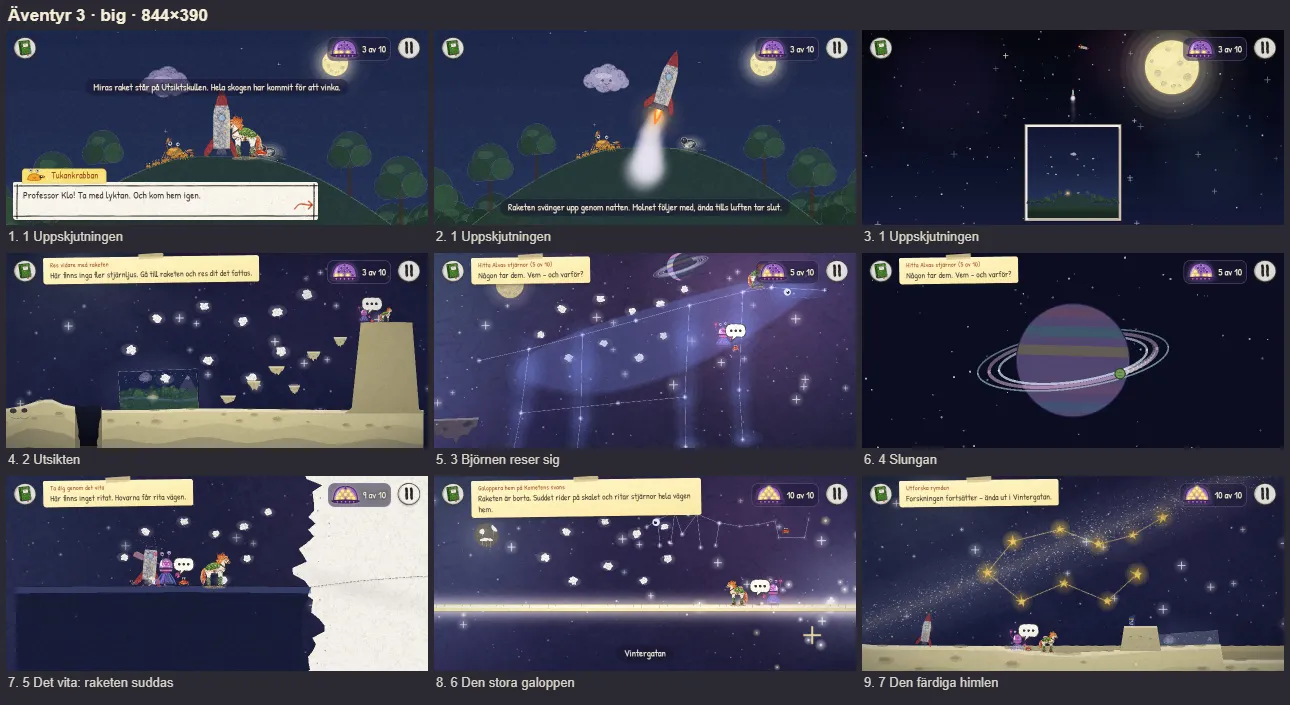
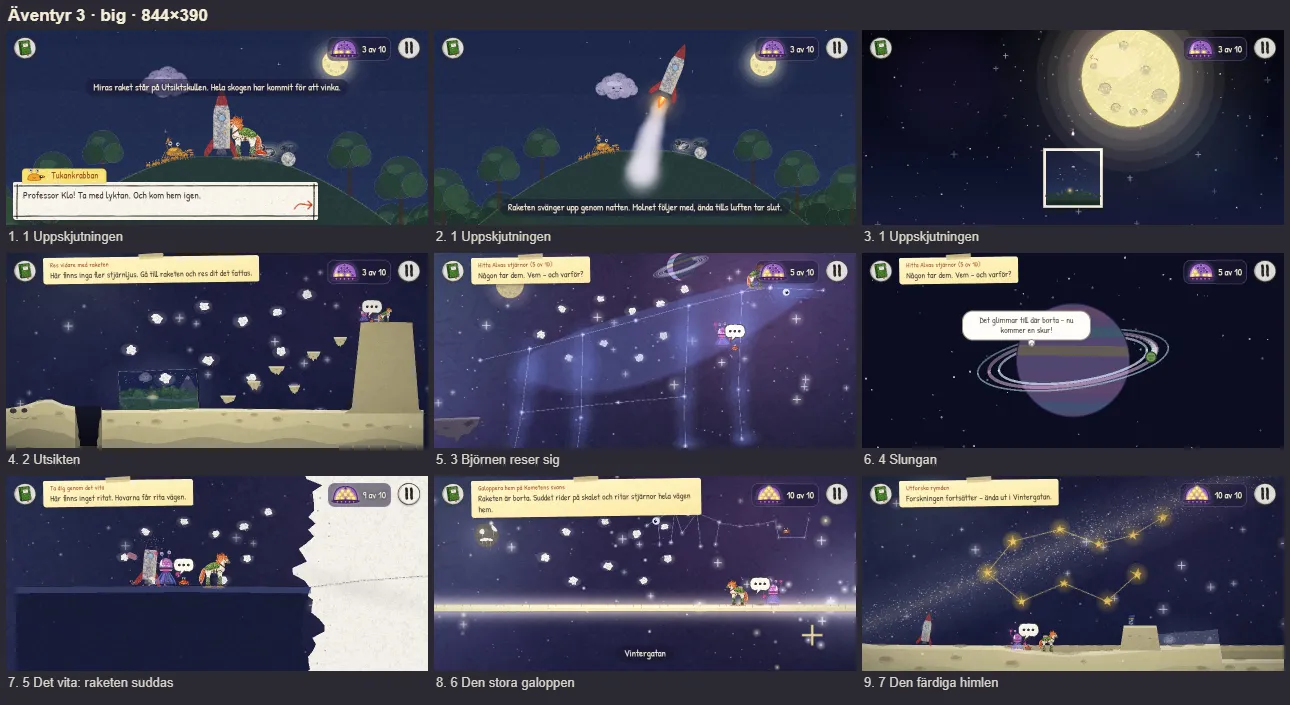
Äventyr 3: Tordyveln can be seen at the launch, up on his ball
He was in the launch picture, but at Äventyr 2's daytime size, dark blue on
the dark hill at night and mostly behind Skatan at the frame's edge. He now
stands up on his pale ball of eggshells (as a dung beetle does to find its
way by the Milky Way), bigger and with a moonlit glow behind him like
Skatan's. A phone held upright shows a little more of the hill so the ball
fits. No new lines; Äventyr 2's Tordyveln is unchanged.

diff --git a/skoldhast/HANDOVER.md b/skoldhast/HANDOVER.md
@@ -1,3 +1,17 @@
+## Äventyr 3: Tordyveln at the launch (13 November)
+
+Pappa: "Jag saknar tordyveln i början av äventyr 3 när alla från skogen är där vid raketen."
+
+- **Why:** he was there, but drawn at Äventyr 2's daytime size (37×20 px on a phone held upright), dark blue on the
+  dark hill at night, mostly behind Skatan at the right edge of the frame.
+- **Now** (`adventures/adventure-3/pictures.mjs`, the launch): he stands up on his finest ball, the pale one he rolled
+  from the hatched eggs' shells after Äventyr 2 (drawn as Äventyr 2 draws it). That is what a dung beetle does to find
+  its way by the Milky Way. He is bigger, and has a moonlit glow behind him like Skatan's. A phone held upright now
+  shows 1000 world units across instead of 940 (`PORTRAIT_W`), so his ball fits inside the frame. Skatan is back
+  beside Klo, where she was before.
+- No line was added, so there is nothing to record. Äventyr 2's own Tordyveln (`createBeetle`) is unchanged.
+- The launch's contact sheets were made again (`docs/skoldhast/shots/a3/big-*.webp`).
+
 ## Äventyr 3: Kanten's stairs and ledge with a thumb on the stick (13 November)
 
 Pappa, with a screenshot from Alva's phone at Kanten (2 av 10): "I äventyr 3 så går det inte hoppa upp på avsatserna
